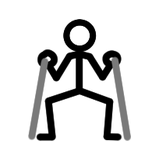
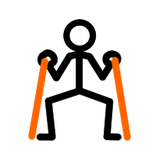
Tonnup BÊTA - 08/09/2026 22:40

Changed region(s): [[0.6875, 0.3438, 0.8438, 0.9062], [0.1562, 0.3438, 0.3125, 0.875]]

diff --git a/beta/index.html b/beta/index.html
@@ -4180,7 +4180,7 @@ const LIB = [
   ["Épaules","Arnold press","Haltères","ohp"],["Épaules","Rowing menton","Barre","shrug"],
   ["Biceps","Curl concentration","Haltères","preacher"],
   ["Triceps","Pompes diamant","Poids du corps","pushup"],
-  ["Jambes","Goblet squat","Haltères","squat"],["Jambes","Front squat","Barre","squat"],
+  ["Jambes","Goblet squat","Haltères","squat"],["Jambes","Front squat","Barre","frontsquat"],
   ["Jambes","Soulevé de terre sumo","Barre","deadlift"],["Jambes","Good morning","Barre","deadlift"],
   ["Jambes","Montées sur banc","Haltères","bulgarian"],["Jambes","Kickback fessier poulie","Poulie","kickback"],
   ["Abdos","Russian twist","Poids du corps","crunch"],["Abdos","Mountain climber","Poids du corps","plank"],
@@ -6804,7 +6804,7 @@ function coachDesc(goal){
    worker les garde en cache et ne les reprend que si elles changent.
    La clé est le nom de l'icône déjà porté par chaque exercice — la famille existe
    depuis toujours dans la bibliothèque, elle n'avait juste pas d'image. */
-const EXO_IMG = {squat:"squat", squatband:"squat-elastique"};
+const EXO_IMG = {squat:"squat", squatband:"squat-elastique", frontsquat:"front-squat"};
 function exIcon(ex, sm){
   const img = EXO_IMG[ex.icon];
   /* Une plaque claire dans les deux thèmes : le trait est noir, il lui faut son fond.
@@ -6815,7 +6815,7 @@ function exIcon(ex, sm){
 }
 
 const KEY="tonnage_v1";
-const BUILD = "8 septembre 2026 22h26 · bêta";   /* remplacé par build.ps1 : date et heure de la construction */
+const BUILD = "8 septembre 2026 22h40 · bêta";   /* remplacé par build.ps1 : date et heure de la construction */
 
 const MARK = "tonnage_marker";
 /* diagnostic : que survit-il entre deux ouvertures ? */

diff --git a/beta/sw.js b/beta/sw.js
@@ -1,8 +1,9 @@
 /* Tonnup — service worker : l'app marche hors ligne et se met à jour toute seule. */
-const CACHE = "tonnup-beta-v10-20260908-2226";
+const CACHE = "tonnup-beta-v10-20260908-2240";
 const ASSETS = ["./", "./index.html", "./manifest.webmanifest", "./confidentialite.html", "./icon-192.png", "./icon-512.png", "./apple-touch-icon.png",
   "./img/exos/squat.png",
   "./img/exos/squat-elastique.png",
+  "./img/exos/front-squat.png",
   "./img/push.jpg", "./img/pull.jpg", "./img/jambes.jpg", "./img/abdos.jpg", "./img/cardio.jpg", "./img/modif.png", 
   "./img/muscles/back-avant-bras.png", "./img/muscles/back-base.png", "./img/muscles/back-deltoides.png", "./img/muscles/back-fessiers.png", "./img/muscles/back-grand-dorsal.png", "./img/muscles/back-ischio-jambiers.png", "./img/muscles/back-ligne.png", "./img/muscles/back-lombaires.png", "./img/muscles/back-mollets.png", "./img/muscles/back-trapezes.png", "./img/muscles/back-triceps.png", "./img/muscles/front-abdos.png", "./img/muscles/front-avant-bras.png", "./img/muscles/front-base.png", "./img/muscles/front-biceps.png", "./img/muscles/front-deltoides.png", "./img/muscles/front-ligne.png", "./img/muscles/front-mollets.png", "./img/muscles/front-pectoraux.png", "./img/muscles/front-quadriceps.png", "./img/muscles/front-trapezes.png"];
 
